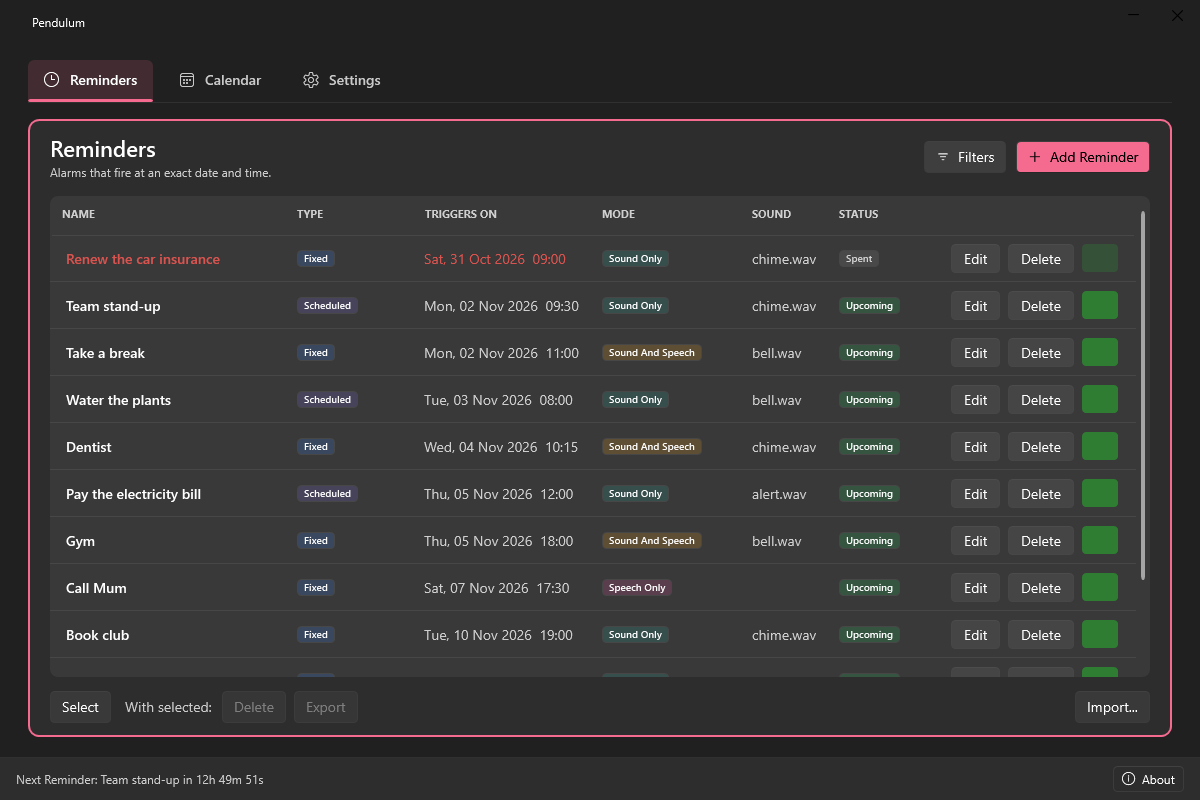
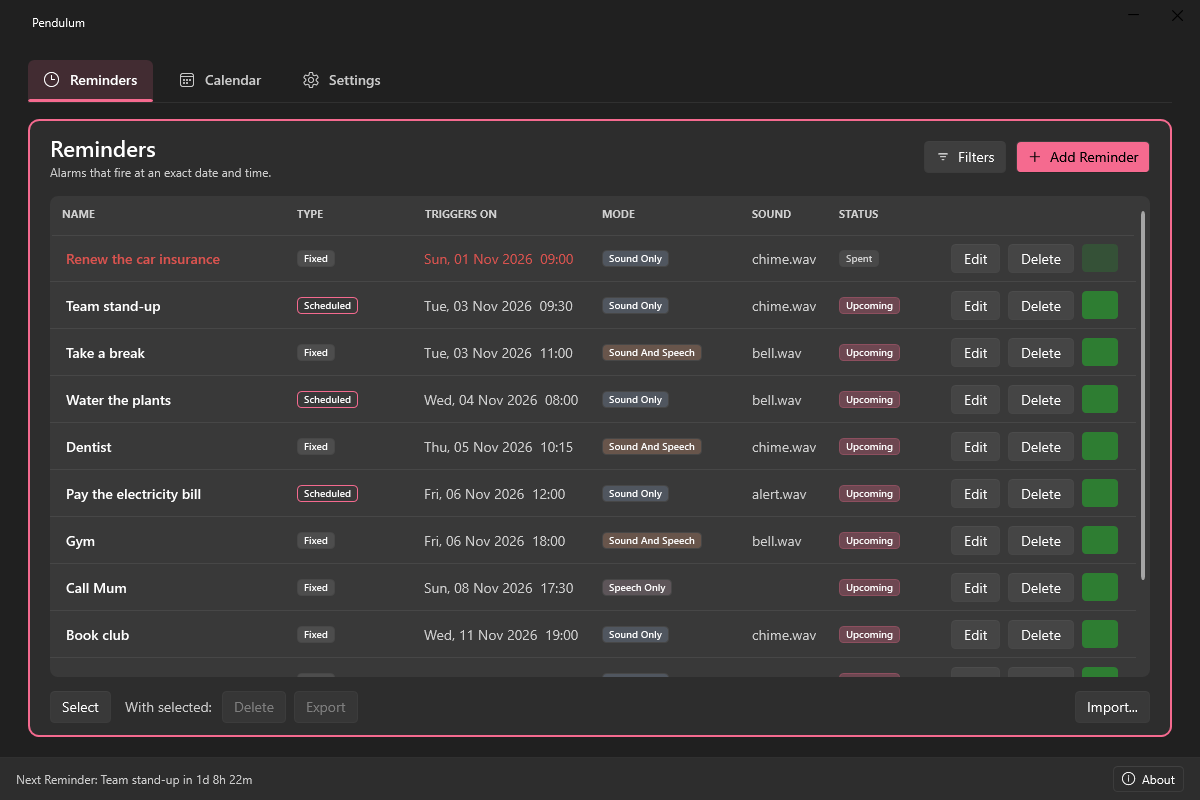
Fit the Reminders list's badges to the app's rose colour
The Reminders list's badges kept their old category colours: blue,
purple, green, amber, teal, orange and pink. They now fit the rose
theme without all being rose. Upcoming takes the calendar's rose chip
and Scheduled a rose outline; Fixed and Disabled are neutral greys at
different strengths (Spent stays the theme's own); and the three alert
types are muted tints, a cool slate, a warm clay and a mauve. Each is
still told apart by its words. AppThemeManager sets the colours per
theme, and the theme's text on every badge keeps WCAG AA contrast in
light and dark. The "Filters" button turns rose, not blue, while
filters are on.

The column filters' lists were drawn on a fixed dark grey, hard to read
in the light theme; they now take the theme's own background, as the
calendar's "+N more" list does.

The README's Reminders picture is redrawn.

diff --git a/Pendulum.App/Views/TriggersPanel.xaml b/Pendulum.App/Views/TriggersPanel.xaml
@@ -20,20 +20,10 @@
         <conv:NullToVisibilityConverter x:Key="ScheduledVis"/>
         <conv:InverseNullToVisibilityConverter x:Key="FixedVis"/>
         <conv:ReminderStatusVisibilityConverter x:Key="ReminderStatusVis"/>
-        <SolidColorBrush x:Key="ScheduledBadgeBrush" Color="#337C6AE0"/>
-        <SolidColorBrush x:Key="FixedBadgeBrush" Color="#333B82F6"/>
-        <SolidColorBrush x:Key="UpcomingBadgeBrush" Color="#3322C55E"/>
-        <SolidColorBrush x:Key="DisabledBadgeBrush" Color="#33F59E0B"/>
-        <SolidColorBrush x:Key="FilterActiveBrush" Color="#4048A0FA"/>
-        <SolidColorBrush x:Key="SoundOnlyBadgeBrush" Color="#332AA198"/>
-        <SolidColorBrush x:Key="SoundSpeechBadgeBrush" Color="#33F0A020"/>
-        <SolidColorBrush x:Key="SpeechOnlyBadgeBrush" Color="#33E0529A"/>
         <SolidColorBrush x:Key="SpentTextBrush" Color="#D9534F"/>
-        <!-- ControlFillColorDefaultBrush (the panel's own background) is intentionally
-             slightly translucent, which lets row content bleed through when it's reused
-             inside an AllowsTransparency popup. This is that same colour forced fully
-             opaque so the filter dropdowns render solid. -->
-        <SolidColorBrush x:Key="ColumnFilterPopupOpaqueBrush" Color="#FF2D2D2D"/>
+        <!-- The badges' colours fit the rose theme (AppThemeManager sets each per theme): Upcoming
+             the calendar's rose chip, Scheduled a rose outline, Fixed and Disabled neutral greys,
+             the alert types muted tints. Each is told apart by its words. -->
         <Style x:Key="NameText" TargetType="TextBlock">
             <Setter Property="Foreground" Value="{DynamicResource TextFillColorPrimaryBrush}"/>
             <Style.Triggers>
@@ -64,13 +54,13 @@
             <Setter Property="HorizontalAlignment" Value="Left"/>
             <Style.Triggers>
                 <DataTrigger Binding="{Binding Mode}" Value="SoundOnly">
-                    <Setter Property="Background" Value="{StaticResource SoundOnlyBadgeBrush}"/>
+                    <Setter Property="Background" Value="{DynamicResource PendulumBadgeSoundOnlyBrush}"/>
                 </DataTrigger>
                 <DataTrigger Binding="{Binding Mode}" Value="SoundAndSpeech">
-                    <Setter Property="Background" Value="{StaticResource SoundSpeechBadgeBrush}"/>
+                    <Setter Property="Background" Value="{DynamicResource PendulumBadgeSoundAndSpeechBrush}"/>
                 </DataTrigger>
                 <DataTrigger Binding="{Binding Mode}" Value="SpeechOnly">
-                    <Setter Property="Background" Value="{StaticResource SpeechOnlyBadgeBrush}"/>
+                    <Setter Property="Background" Value="{DynamicResource PendulumBadgeSpeechOnlyBrush}"/>
                 </DataTrigger>
             </Style.Triggers>
         </Style>
@@ -123,7 +113,7 @@
             </Setter>
         </Style>
         <Style x:Key="ColumnFilterPopupBorder" TargetType="Border">
-            <Setter Property="Background" Value="{StaticResource ColumnFilterPopupOpaqueBrush}"/>
+            <Setter Property="Background" Value="{DynamicResource PendulumPopupBrush}"/>
             <Setter Property="BorderBrush" Value="{DynamicResource ControlStrokeColorDefaultBrush}"/>
             <Setter Property="BorderThickness" Value="1"/>
             <Setter Property="CornerRadius" Value="6"/>
@@ -202,7 +192,7 @@
             <Setter Property="Background" Value="{DynamicResource ControlFillColorSecondaryBrush}"/>
             <Style.Triggers>
                 <DataTrigger Binding="{Binding HasActiveFilters}" Value="True">
-                    <Setter Property="Background" Value="{StaticResource FilterActiveBrush}"/>
+                    <Setter Property="Background" Value="{DynamicResource PendulumChipBrush}"/>
                 </DataTrigger>
             </Style.Triggers>
         </Style>
@@ -294,12 +284,12 @@
                                             <Border Style="{StaticResource ColumnFilterPopupBorder}">
                                                 <StackPanel>
                                                     <CheckBox Style="{StaticResource ColumnFilterCheckBox}" IsChecked="{Binding Filter.TypeFixed}">
-                                                        <Border Style="{StaticResource TagBadge}" Background="{StaticResource FixedBadgeBrush}">
+                                                        <Border Style="{StaticResource TagBadge}" Background="{DynamicResource PendulumBadgeFixedBrush}">
                                                             <TextBlock Text="{x:Static res:Strings.Reminders_Fixed}" Style="{StaticResource TagBadgeText}" Foreground="{DynamicResource TextFillColorPrimaryBrush}"/>
                                                         </Border>
                                                     </CheckBox>
                                                     <CheckBox Style="{StaticResource ColumnFilterCheckBox}" Margin="0" IsChecked="{Binding Filter.TypeScheduled}">
-                                                        <Border Style="{StaticResource TagBadge}" Background="{StaticResource ScheduledBadgeBrush}">
+                                                        <Border Style="{StaticResource TagBadge}" Background="Transparent" BorderBrush="{DynamicResource PendulumAccentBrush}">
                                                             <TextBlock Text="{x:Static res:Strings.Reminders_Scheduled}" Style="{StaticResource TagBadgeText}" Foreground="{DynamicResource TextFillColorPrimaryBrush}"/>
                                                         </Border>
                                                     </CheckBox>
@@ -312,12 +302,12 @@
                                 <GridViewColumn.CellTemplate>
                                     <DataTemplate>
                                         <StackPanel Orientation="Horizontal" VerticalAlignment="Center" Margin="6,0,0,0">
-                                            <Border Style="{StaticResource TagBadge}" Background="{StaticResource FixedBadgeBrush}"
+                                            <Border Style="{StaticResource TagBadge}" Background="{DynamicResource PendulumBadgeFixedBrush}"
                                                     Visibility="{Binding Recurrence, Converter={StaticResource FixedVis}}">
                                                 <TextBlock Text="{x:Static res:Strings.Reminders_Fixed}" Style="{StaticResource TagBadgeText}"
                                                            Foreground="{DynamicResource TextFillColorPrimaryBrush}"/>
                                             </Border>
-                                            <Border Style="{StaticResource TagBadge}" Background="{StaticResource ScheduledBadgeBrush}"
+                                            <Border Style="{StaticResource TagBadge}" Background="Transparent" BorderBrush="{DynamicResource PendulumAccentBrush}"
                                                     Visibility="{Binding Recurrence, Converter={StaticResource ScheduledVis}}">
                                                 <TextBlock Text="{x:Static res:Strings.Reminders_Scheduled}" Style="{StaticResource TagBadgeText}"
                                                            Foreground="{DynamicResource TextFillColorPrimaryBrush}"/>
@@ -385,17 +375,17 @@
                                             <Border Style="{StaticResource ColumnFilterPopupBorder}">
                                                 <StackPanel>
                                                     <CheckBox Style="{StaticResource ColumnFilterCheckBox}" IsChecked="{Binding Filter.ModeSoundOnly}">
-                                                        <Border Style="{StaticResource TagBadge}" Background="{StaticResource SoundOnlyBadgeBrush}">
+                                                        <Border Style="{StaticResource TagBadge}" Background="{DynamicResource PendulumBadgeSoundOnlyBrush}">
                                                             <TextBlock Text="{x:Static res:Strings.Reminders_SoundOnly}" Style="{StaticResource TagBadgeText}" Foreground="{DynamicResource TextFillColorPrimaryBrush}"/>
                                                         </Border>
                                                     </CheckBox>
                                                     <CheckBox Style="{StaticResource ColumnFilterCheckBox}" IsChecked="{Binding Filter.ModeSoundAndSpeech}">
-                                                        <Border Style="{StaticResource TagBadge}" Background="{StaticResource SoundSpeechBadgeBrush}">
+                                                        <Border Style="{StaticResource TagBadge}" Background="{DynamicResource PendulumBadgeSoundAndSpeechBrush}">
                                                             <TextBlock Text="{x:Static res:Strings.Reminders_SoundSpeech}" Style="{StaticResource TagBadgeText}" Foreground="{DynamicResource TextFillColorPrimaryBrush}"/>
                                                         </Border>
                                                     </CheckBox>
                                                     <CheckBox Style="{StaticResource ColumnFilterCheckBox}" Margin="0" IsChecked="{Binding Filter.ModeSpeechOnly}">
-                                                        <Border Style="{StaticResource TagBadge}" Background="{StaticResource SpeechOnlyBadgeBrush}">
+                                                        <Border Style="{StaticResource TagBadge}" Background="{DynamicResource PendulumBadgeSpeechOnlyBrush}">
                                                             <TextBlock Text="{x:Static res:Strings.Reminders_SpeechOnly}" Style="{StaticResource TagBadgeText}" Foreground="{DynamicResource TextFillColorPrimaryBrush}"/>
                                                         </Border>
                                                     </CheckBox>
@@ -446,7 +436,7 @@
                                             <Border Style="{StaticResource ColumnFilterPopupBorder}">
                                                 <StackPanel>
                                                     <CheckBox Style="{StaticResource ColumnFilterCheckBox}" IsChecked="{Binding Filter.StatusUpcoming}">
-                                                        <Border Style="{StaticResource TagBadge}" Background="{StaticResource UpcomingBadgeBrush}">
+                                                        <Border Style="{StaticResource TagBadge}" Background="{DynamicResource PendulumChipBrush}" BorderBrush="{DynamicResource PendulumChipStrokeBrush}">
                                                             <TextBlock Text="{x:Static res:Strings.Reminders_Upcoming}" Style="{StaticResource TagBadgeText}" Foreground="{DynamicResource TextFillColorPrimaryBrush}"/>
                                                         </Border>
                                                     </CheckBox>
@@ -456,7 +446,7 @@
                                                         </Border>
                                                     </CheckBox>
                                                     <CheckBox Style="{StaticResource ColumnFilterCheckBox}" Margin="0" IsChecked="{Binding Filter.StatusDisabled}">
-                                                        <Border Style="{StaticResource TagBadge}" Background="{StaticResource DisabledBadgeBrush}">
+                                                        <Border Style="{StaticResource TagBadge}" Background="{DynamicResource PendulumBadgeDisabledBrush}">
                                                             <TextBlock Text="{x:Static res:Strings.Reminders_Disabled}" Style="{StaticResource TagBadgeText}" Foreground="{DynamicResource TextFillColorPrimaryBrush}"/>
                                                         </Border>
                                                     </CheckBox>
@@ -474,7 +464,7 @@
                                                 <TextBlock Text="{x:Static res:Strings.Reminders_Spent}" Style="{StaticResource TagBadgeText}"
                                                            Foreground="{DynamicResource TextFillColorSecondaryBrush}"/>
                                             </Border>
-                                            <Border Style="{StaticResource TagBadge}" Background="{StaticResource UpcomingBadgeBrush}">
+                                            <Border Style="{StaticResource TagBadge}" Background="{DynamicResource PendulumChipBrush}" BorderBrush="{DynamicResource PendulumChipStrokeBrush}">
                                                 <Border.Visibility>
                                                     <MultiBinding Converter="{StaticResource ReminderStatusVis}">
                                                         <Binding Path="Enabled"/>
@@ -484,7 +474,7 @@
                                                 <TextBlock Text="{x:Static res:Strings.Reminders_Upcoming}" Style="{StaticResource TagBadgeText}"
                                                            Foreground="{DynamicResource TextFillColorPrimaryBrush}"/>
                                             </Border>
-                                            <Border Style="{StaticResource TagBadge}" Background="{StaticResource DisabledBadgeBrush}">
+                                            <Border Style="{StaticResource TagBadge}" Background="{DynamicResource PendulumBadgeDisabledBrush}">
                                                 <Border.Visibility>
                                                     <MultiBinding Converter="{StaticResource ReminderStatusVis}" ConverterParameter="Disabled">
                                                         <Binding Path="Enabled"/>

diff --git a/Pendulum.App/App.xaml b/Pendulum.App/App.xaml
@@ -21,6 +21,11 @@
             <SolidColorBrush x:Key="PendulumChipBrush" Color="#47F56A8F"/>
             <SolidColorBrush x:Key="PendulumChipStrokeBrush" Color="#73F56A8F"/>
             <SolidColorBrush x:Key="PendulumPopupBrush" Color="#2D2D2D"/>
+            <SolidColorBrush x:Key="PendulumBadgeFixedBrush" Color="#1AFFFFFF"/>
+            <SolidColorBrush x:Key="PendulumBadgeDisabledBrush" Color="#33FFFFFF"/>
+            <SolidColorBrush x:Key="PendulumBadgeSoundOnlyBrush" Color="#597A8CA6"/>
+            <SolidColorBrush x:Key="PendulumBadgeSoundAndSpeechBrush" Color="#59C08A6E"/>
+            <SolidColorBrush x:Key="PendulumBadgeSpeechOnlyBrush" Color="#59A08A96"/>
             <SolidColorBrush x:Key="PendulumLinkBrush" Color="#FF8FB0"/>
             <Style TargetType="Hyperlink">
                 <Setter Property="Foreground" Value="{DynamicResource PendulumLinkBrush}"/>

diff --git a/Pendulum.App/Services/AppThemeManager.cs b/Pendulum.App/Services/AppThemeManager.cs
@@ -32,6 +32,15 @@ internal static class AppThemeManager
     /// list): the panel's background, solid, so what's behind doesn't show through.
     public const string PopupBrushKey = "PendulumPopupBrush";  // not user-visible
 
+    /// The Reminders list's badges that aren't rose: Fixed and Disabled in neutral greys, the
+    /// alert types in muted tints (cool, warm and mauve) that sit with the rose. Upcoming takes
+    /// the chip brushes above and Scheduled a rose outline; Spent stays the theme's own grey.
+    public const string BadgeFixedBrushKey = "PendulumBadgeFixedBrush";  // not user-visible
+    public const string BadgeDisabledBrushKey = "PendulumBadgeDisabledBrush";  // not user-visible
+    public const string BadgeSoundOnlyBrushKey = "PendulumBadgeSoundOnlyBrush";  // not user-visible
+    public const string BadgeSoundAndSpeechBrushKey = "PendulumBadgeSoundAndSpeechBrush";  // not user-visible
+    public const string BadgeSpeechOnlyBrushKey = "PendulumBadgeSpeechOnlyBrush";  // not user-visible
+
     /// The accent for one theme. WPF-UI 3 uses `Fill` for primary buttons, toggles and checked
     /// boxes, `Hover` for a primary button under the pointer and its other accent fills, and
     /// `Text` for accent-coloured text; `System` is the selection highlight. On light, labels on
@@ -58,6 +67,16 @@ internal static class AppThemeManager
     // The calendar's background (ControlFillColorDefault over the window), made opaque.
     private const string PopupOnLight = "#FBFBFB";
     private const string PopupOnDark = "#2D2D2D";
+
+    /// The Reminders list's other badges, each a colour with its alpha (#AARRGGBB). The theme's
+    /// primary text on each, at the worst of the panel's backgrounds (light #EEEEEE to #FFFFFF,
+    /// dark #202020 to #3A3A3A), WCAG 2: light 10.7:1 or more, dark 6.2:1 or more.
+    private sealed record Badges(string Fixed, string Disabled, string SoundOnly, string SoundAndSpeech, string SpeechOnly);
+
+    private static readonly Badges BadgesOnLight = new(
+        Fixed: "#0F000000", Disabled: "#24000000", SoundOnly: "#385A6E8C", SoundAndSpeech: "#38B0704E", SpeechOnly: "#388A7080");
+    private static readonly Badges BadgesOnDark = new(
+        Fixed: "#1AFFFFFF", Disabled: "#33FFFFFF", SoundOnly: "#597A8CA6", SoundAndSpeech: "#59C08A6E", SpeechOnly: "#59A08A96");
 
     public static void Apply(ThemeMode mode)
     {
@@ -87,6 +106,13 @@ internal static class AppThemeManager
         SetBrush(ChipBrushKey, WithAlpha(accent.Fill, ChipAlpha));
         SetBrush(ChipStrokeBrushKey, WithAlpha(accent.Fill, ChipStrokeAlpha));
         SetBrush(PopupBrushKey, Parse(theme == ApplicationTheme.Dark ? PopupOnDark : PopupOnLight));
+
+        var badges = theme == ApplicationTheme.Dark ? BadgesOnDark : BadgesOnLight;
+        SetBrush(BadgeFixedBrushKey, Parse(badges.Fixed));
+        SetBrush(BadgeDisabledBrushKey, Parse(badges.Disabled));
+        SetBrush(BadgeSoundOnlyBrushKey, Parse(badges.SoundOnly));
+        SetBrush(BadgeSoundAndSpeechBrushKey, Parse(badges.SoundAndSpeech));
+        SetBrush(BadgeSpeechOnlyBrushKey, Parse(badges.SpeechOnly));
     }
 
     private static Color WithAlpha(string hex, byte alpha)

diff --git a/CHANGELOG.md b/CHANGELOG.md
@@ -127,6 +127,10 @@ and this project follows [Semantic Versioning](https://semver.org/).
   it listens no longer leaves Quick Reminder stuck on "Listening".
 
 ### Changed
+- The Reminders list's badges fit the app's rose colour: Upcoming is rose and
+  Scheduled a rose outline, Fixed and Disabled are greys, and the alert types
+  muted tints. The "Filters" button turns rose while filters are on, and the
+  column filters' lists follow the theme, readable in the light theme too.
 - The calendar's reminder chips and "+N more" are now rose, to match the app's
   colour, in light and dark, instead of green and purple. The "+N more" list
   follows the theme too, rather than staying dark in the light theme.
